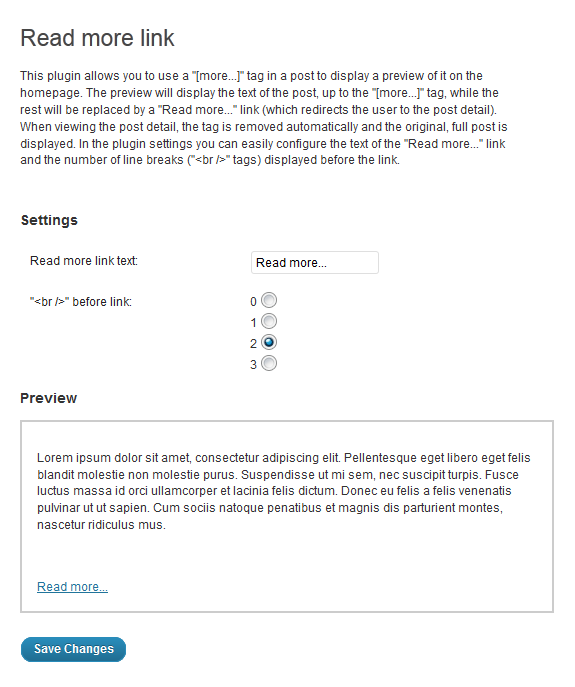
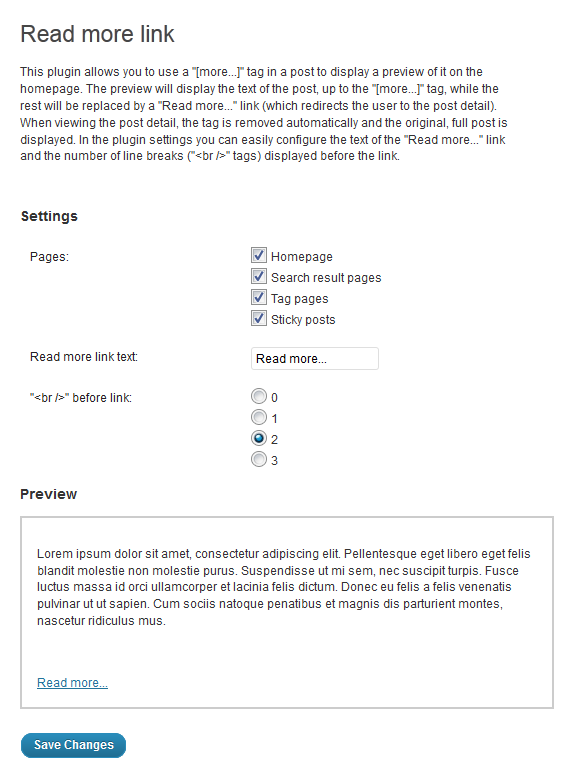
git-svn-id: https://plugins.svn.wordpress.org/read-more-link/trunk@531509 b8457f37-d9ea-0310-8a92-e5e31aec5664

diff --git a/functions.php b/functions.php
@@ -1,7 +1,7 @@
 <?php
 /**
  * @package Read more link
- * @version 1.0
+ * @version 1.2
  */
 /*
 Plugin Name: Read more link
@@ -11,15 +11,25 @@ The preview will display the text of the post, up to the "[more...]" tag, while 
 When viewing the post detail, the tag is removed automatically and the original, full post is displayed.
 In the plugin settings you can easily configure the text of the "Read more..." link and the number of line breaks ("<br />" tags) displayed before the link.
 Author: Luca Dioli
-Version: 1.0
+Version: 1.2
 Author URI: http://lucadioli.com/
 */
 
 $options = array(
 	'read_more_link_text' => 'Read more...',
-	'read_more_link_br' => 2
+	'read_more_link_br' => 2,
+	'read_more_link_home' => true,
+	'read_more_link_search' => true,
+	'read_more_link_tag' => true,
+	'read_more_link_sticky' => true
 );
 
+$rdmPages = array(
+	'home' => 'Homepage',
+	'search' => 'Search result pages',
+	'tag' => 'Tag pages',
+	'sticky' => 'Sticky posts'
+);
 
 /* Settings functions */
 
@@ -30,19 +40,18 @@ function your_plugin_settings_link($links) {
   return $links; 
 }
 
-function baw_create_menu() {
-	//create new top-level menu
-	//add_menu_page('Read more link Settings', 'Read more link', 'administrator', __FILE__, 'baw_settings_page',plugins_url('/images/icon.png', __FILE__));
-
-	add_options_page('Read more link Settings', 'Read more link', 'administrator', __FILE__, 'baw_settings_page');
-	
-	//call register settings function
+function rml_create_menu() {
+	add_options_page('Read more link Settings', 'Read more link', 'administrator', __FILE__, 'rml_settings_page');
 	add_action( 'admin_init', 'register_mysettings' );
 }
 
 function register_mysettings() {
 	register_setting( 'read-more-links-settings-group', 'read_more_link_text' );
 	register_setting( 'read-more-links-settings-group', 'read_more_link_br' );
+	global $rdmPages;
+	foreach($rdmPages as $id => $name){
+		register_setting( 'read-more-links-settings-group', 'read_more_link_'.$id );
+	}
 }
 
 function rmlGetOptions($key){
@@ -51,7 +60,7 @@ function rmlGetOptions($key){
 	else return get_option($key);
 }
 
-function baw_settings_page() {
+function rml_settings_page() {
 	?>
 	<div class="wrap">
 		<h2>Read more link</h2>
@@ -62,6 +71,15 @@ function baw_settings_page() {
 			<?php settings_fields( 'read-more-links-settings-group' ); ?>
 			<?php //do_settings( 'read-more-links-settings-group' ); ?>
 			<table class="form-table">
+				<tr valign="top">
+					<th scope="row">Pages:</th>
+					<td>
+						<?php 
+						global $rdmPages;
+						foreach($rdmPages as $id => $name) echo '<input type="checkbox" name="read_more_link_'.$id.'" value="'.$id.'"'.((rmlGetOptions('read_more_link_'.$id)) ? ' checked="checked"' : '').' /> '.$name.'<br />'; 
+						?>
+					</td>
+				</tr>
 				<tr valign="top">
 					<th scope="row">Read more link text:</th>
 					<td><input type="text" id="read_more_link_text" name="read_more_link_text" value="<?php echo rmlGetOptions('read_more_link_text'); ?>" /></td>
@@ -77,7 +95,7 @@ function baw_settings_page() {
 				<tr valign="top">
 					<th scope="row">"&lt;br /&gt;" before link:</th>
 					<td>
-						<?php for($i=0;$i<4;$i++) echo $i.' <input type="radio" name="read_more_link_br" value="'.$i.'"'.((rmlGetOptions('read_more_link_br') == $i) ? ' checked="checked"' : '').' /><br />'; ?>
+						<?php for($i=0;$i<4;$i++) echo '<input type="radio" name="read_more_link_br" value="'.$i.'"'.((rmlGetOptions('read_more_link_br') == $i) ? ' checked="checked"' : '').' /> '.$i.'<br />'; ?>
 					</td>
 				</tr>
 			</table>
@@ -129,7 +147,31 @@ function baw_settings_page() {
 
 function add_more_link($content){
 	$tag = "[more...]";
-	if(is_home()){
+	$attach = false;
+	global $rdmPages;
+	foreach($rdmPages as $id => $name){
+		$state = get_option('read_more_link_'.$id);
+		if($state){
+			switch($id){
+				case 'home':
+					if(is_home()) $attach = true;
+				break;
+				case 'search':
+					if(is_search()) $attach = true;
+				break;
+				case 'tag':
+					if(is_tag()) $attach = true;
+				break;
+				case 'sticky':
+					if(is_sticky()) $attach = true;
+				break;
+			}
+		}
+		else if($id == 'sticky' && is_sticky()){
+			$attach = false;
+		}
+	}
+	if($attach){
 		$pos = stripos($content,$tag);
 		if ($pos !== false) {
 			$content = substr($content,0,$pos);
@@ -156,6 +198,6 @@ function get_more_link(){
 
 
 
-add_action('admin_menu', 'baw_create_menu');
+add_action('admin_menu', 'rml_create_menu');
 add_filter('the_content','add_more_link');
 add_filter("plugin_action_links_".plugin_basename(__FILE__), 'your_plugin_settings_link' );
